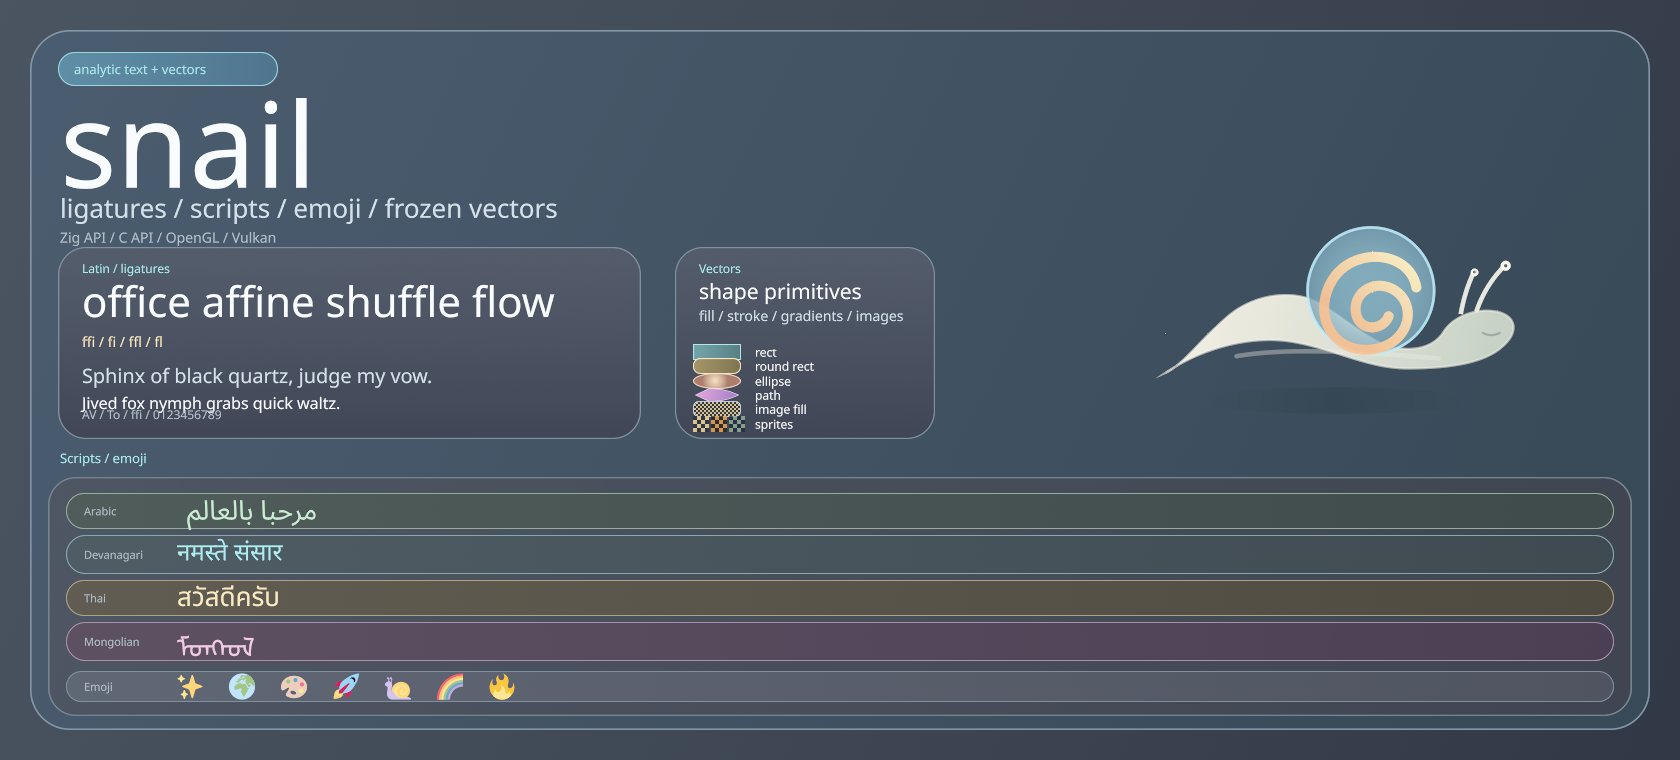
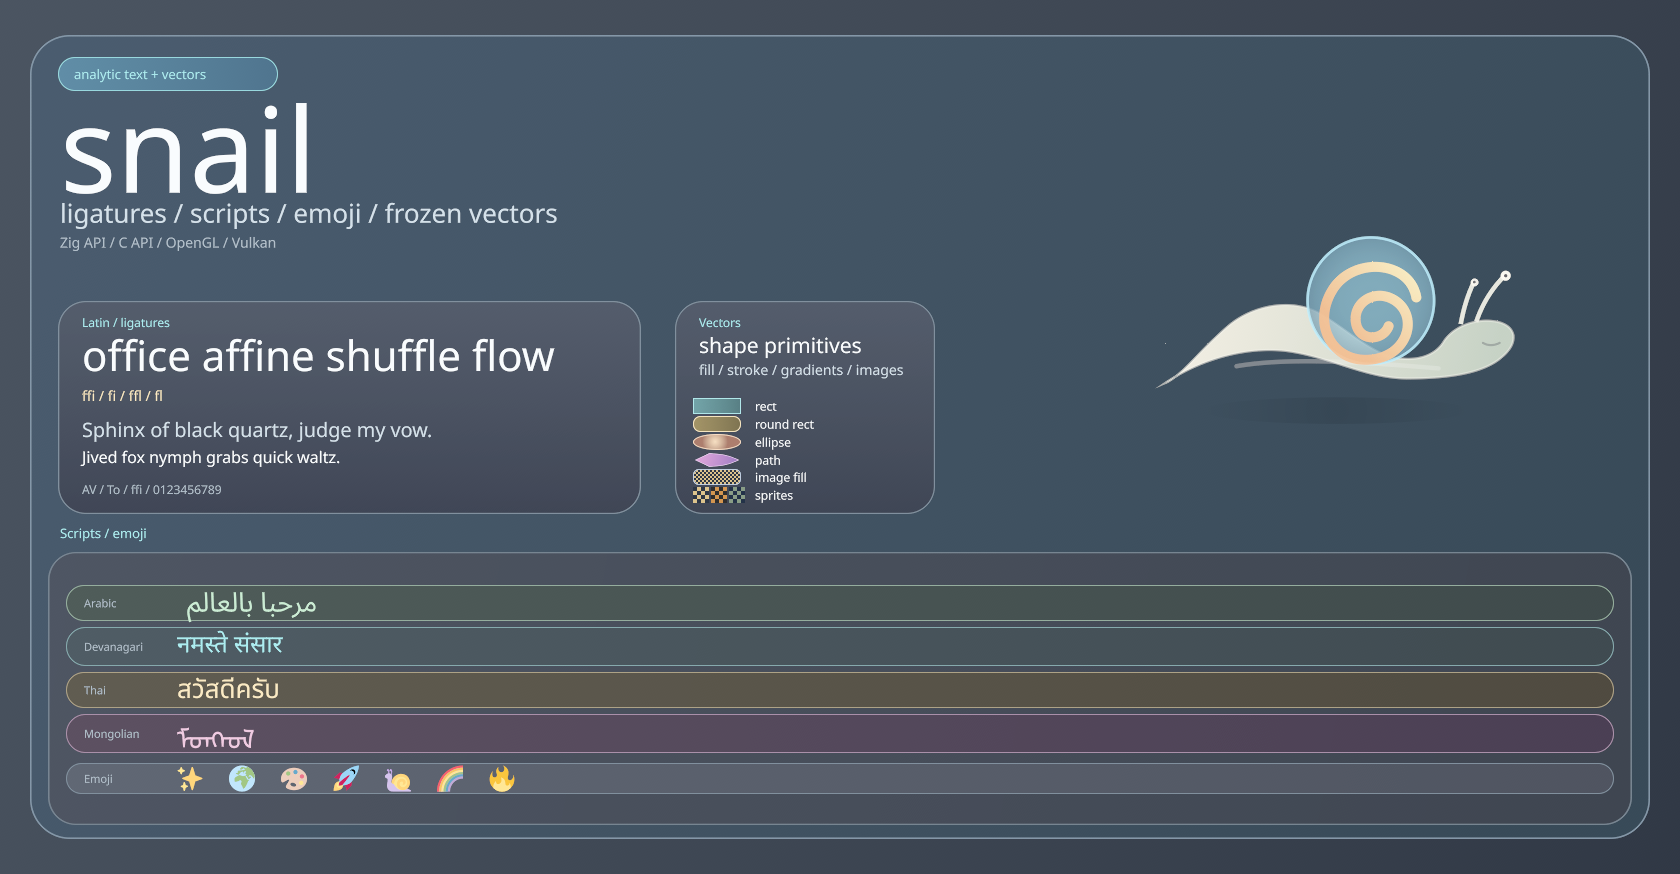
Prepare 0.1.0 release
- Switch Nix packaging to nixpkgs zig_0_16 and zig.hook, drop zig-overlay
- Bump version to 0.1.0 in build.zig.zon, default.nix, snail.pc.in
- Add CHANGELOG.md
- Regenerate demo banner at taller resolution

diff --git a/CHANGELOG.md b/CHANGELOG.md
@@ -1,0 +1,38 @@
+# Changelog
+
+## 0.1.0
+
+Initial release.
+
+### Text rendering
+- Direct Bezier curve evaluation in the fragment shader (Slug algorithm) — no texture atlas rasterization
+- Subpixel LCD antialiasing (RGB/BGR/VRGB/VBGR) with safe dual-source blending
+- Grayscale AA fallback for rotated/scaled text
+- HarfBuzz integration for full OpenType shaping (optional, `-Dharfbuzz=true`)
+- Built-in GSUB/GPOS shaping and kerning when HarfBuzz is disabled
+- COLR/CPAL color emoji support
+- Multi-font rendering via texture arrays (no atlas switching overhead)
+
+### Vector paths
+- Filled and stroked paths with analytic antialiasing
+- Shape primitives: rect, rounded rect, ellipse, arbitrary cubic Bezier paths
+- Paint types: solid color, linear gradient, radial gradient, image fill
+- Even-odd and non-zero fill rules
+- Frozen path pictures for static scene reuse
+
+### Sprites
+- Batched sprite rendering with per-sprite tint, rotation, and anchor
+- Nearest and linear filtering
+- Shared image texture array with path image paints
+
+### API
+- Zero-allocation batch API: caller owns vertex buffers, can pre-build static batches
+- Shaped-run API for terminal/editor use (caller owns runs, snail owns shaping)
+- C API with shared library (`libsnail.so` / `libsnail.a`) and pkg-config
+- Zig package module (`zig fetch --save`)
+- OpenGL 3.3+ and Vulkan backends
+
+### Performance
+- GL 4.4 persistent mapped buffer path when available
+- Comptime-gated CPU profiling timers
+- Benchmarks against FreeType + HarfBuzz
